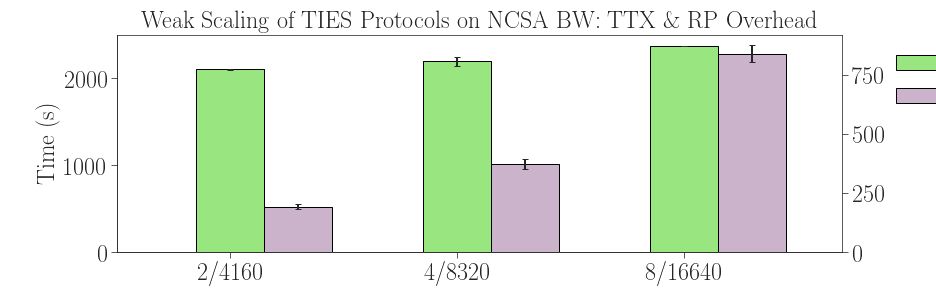
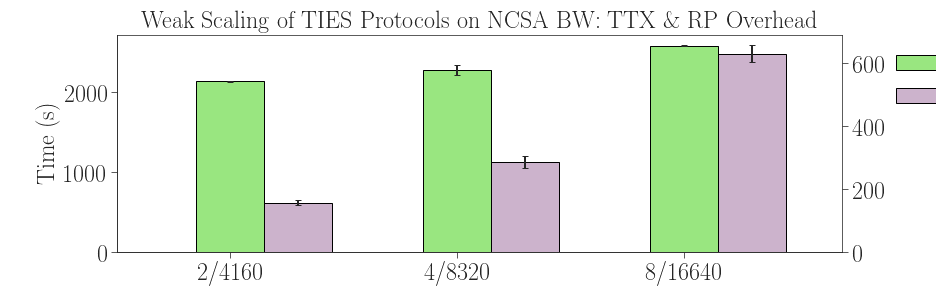
updates on figures, modified experiment section

diff --git a/sc18/experiments.tex b/sc18/experiments.tex
@@ -9,10 +9,25 @@ We perform weak and strong scalability experiments on NCSA Blue Waters--a
 13.3. petaFLOPS Cray, with 32 Interlago cores/50 GB RAM per node, Cray Gemini,
 Lustre shared file system. Our experiments are launched on Blue Waters and
 monitored using a persistent virtual machine, as Blue Waters does not allow
-for executing applications directly on the login node.
+for executing applications directly on the login node. We used HTBAC version 0.1,
+EnTK version 0.6, and RP version 0.47. The MD engine used is NAMD-MPI on Blue 
+Waters. On Titan the MD engine is non-MPI multi-core NAMD compiled with CUDA. 
 
-We used HTBAC version 0.1 EnTK version 0.6 and RP version 0.47. The MD engine
-used is NAMD-MPI for tasks pertaining to $S1$ - $S4$, while the analysis
+We show homogeneous and heterogeneous weak scalability of the ESMACS 
+and TIES protocols by growing the number of protocol instances while adhering 
+to the required number of pipelines. By design of each protocol, an 
+increase in the number of instances simply means an increase in the number of 
+pipelines. The first weak scalability experiment demonstrates the 
+behavior of HTBAC, EnTK and RP using the multiple instances
+of the TIES protocols. The second experiment repeats the same design yet replaces
+TIES with ESMACS. The third experiment demonstrates concurrent execution of TIES
+and ESMACS in the same run. By design of weak scaling, the ratio between the 
+number of pipelines and cores are kept constant. As the number of cores 
+(measure of resource) changes by a factor of 2, we introduce twice as many 
+protocol instances. As designed, the weak scaling property provides insight 
+into the size of the workload that can be investigated in a given amount of time.
+
+For tasks pertaining to $S1$ - $S4$, while the analysis
 stage, $S5$ use AmberTools. For both adaptive and nonadaptive experiments, the
 minimization tasks of $S1$ are assigned 1000 steps, while the equilibration
 tasks in $S2$ and $S3$ are assigned 5000 steps. In the nonadaptive
@@ -24,8 +39,8 @@ $S4.4$ is assigned 50,000 steps.
 % resources via a single pilot. Accordingly, we request the maximum number of
 % cores required by the workload as the number of cores in a pilot.
 
-For weak scaling performance, we use between 4160 and 33280 cores as indicated 
-in Figure~\ref{fig:weak_scaling} because the NAMD executable used in all tasks
+For weak scaling performance of TIES, we use between 4160 and 33280 cores as 
+indicated in Figure~\ref{fig:weak_scaling_TIES} because the NAMD executable used in all tasks
 from $S1$-$S4$ require at least 32 cores per task. From our own scalability
 performance measurements of NAMD on Blue Waters, we observe the ideal cores
 per task to be 16, however Blue Waters does not permit running multiple MPI
@@ -34,7 +49,7 @@ maintain concurrency.
 
 For strong scaling performance, we fix the number of protocol instances to 
 8 instances while varying the amount of resources as demonstrated in 
-Figure~\ref{fig:strong_scaling}. 
+Figure~\ref{fig:strong_scaling_TIES}. 
 
 For the TIES protocol, each pipeline consists of six stages. Each of the
 simulation stages contains a task for every unique ($\lambda$, replica)
@@ -68,7 +83,7 @@ match the additional requirement of generating new protocols.
 The total time to completion (TTC) can be expressed as
 following: $TTC = TTX + T_{O}$ where
  \(TTX\) measures the execution duration across all task, including file
- staging, MD kernel execution, and post-executables, and $T_{O}$ the total
+ staging, MD kernel execution, pre- and post-executables, and $T_{O}$ the total
 overhead is given by the sum of the constituent overheads: $$T_{O} =
 T_{O}\textsuperscript{HTBAC} + T_{O}\textsuperscript{EnTK} +
 T_{O}\textsuperscript{RP}$$
@@ -105,8 +120,23 @@ given amount of time.
   weak scaling of TIES. We ran two trials for each protocol instance 
   configuration. Error bars in \(TTX\) in 2 and 8-protocol runs are 
   insignificant.}
-\label{fig:weak_scaling}
+\label{fig:weak_scaling_TIES}
 \end{figure}
+
+The second and third weak scalability experiment repeats the same experimental 
+design yet replaces the TIES protocols with ESMACS, and TIES plus ESMACS, 
+respectively.
+
+\begin{figure}
+  \centering
+   \includegraphics[width=\columnwidth]{figures/ties_NCSA_BW_weak_scaling_ESMACS.pdf}
+  \caption{Weak scaling properties of HTBAC (right side). We investigate the
+  weak scaling of HTBAC as the ratio of the number of ESMACS protocol instances to
+  resources is kept constant. (Left) Overheads of HTBAC, and runtime overhead (EnTK/RP) for
+  experimental configurations. We ran three trials for each protocol instance configuration.}
+\label{fig:weak_scaling_ESMACS}
+\end{figure}
+
 
 The HTBAC overhead shows a super linear increase as we grow the number of protocol
 instances. However, the HTBAC overhead is a minimal contributor to \(TTX\).
@@ -119,9 +149,11 @@ descriptions from the same database.
 % area networks, which introduces varying amounts of latency.
 In addition, each stage constructed by EnTK maintains sequential barriers. 
 RP remains dormant until completion of the current tasks before staging
-the next tasks. The impact of the synchronization barriers increases with the
-number of CUs as seen in the 16 protocol instances data point in
-\ref{fig:weak_scaling}.
+the next tasks \ref{fig:weak_scaling_TIES}. 
+
+% The impact of the synchronization barriers increases with the
+% number of CUs as seen in the 16 protocol instances data point in
+
 
 Furthermore, an additional overhead, driven by the aprun launch method,
 increases as we approach a system limit on the number of permissible aprun
@@ -151,8 +183,8 @@ concurrent tasks.
 
 The RP overhead decomposes into events that capture the pilot and tasks 
 lifespan. The pilot duration contains the time to bootstrap and terminate the 
-pilot. The task overheads contain the executor's spawning of the task, folder staging preparation, pre-executable, and operating system task spawning.  
-
+pilot. The task overheads contain the executor's spawning of the task, 
+folder staging preparation, and operating system task spawning.  
 
 \begin{figure}
   \centering
@@ -163,8 +195,12 @@ pilot. The task overheads contain the executor's spawning of the task, folder st
   varying the amount resources. Overheads of HTBAC and runtime overhead 
   (left) and \(TTX\) (right) for experimental configurations investigating the 
   strong scaling of TIES.}
-\label{fig:strong_scaling}
+\label{fig:strong_scaling_TIES}
 \end{figure}
+
+
+(introduce experiment showing difference in overhead for EoP and PoE)
+
 
 %------------------------------------------------------------------------------
 

diff --git a/sc18/results.tex b/sc18/results.tex
@@ -35,27 +35,19 @@ T_{O}\textsuperscript{RP}$$
 
 \subsubsection{Weak Scaling Experiments}
 
-Here we show weak scalability for the TIES protocol by growing the number of
-protocol instances while adhering to the required number of pipelines. By
-design of each protocol, an increase in the number of instances simply means
-an increase in the number of pipelines. The first weak scalability experiment
-demonstrates the behavior of HTBAC, EnTK and RP using the multiple instances
-of the TIES protocol. By design of weak scaling, the ratio between the number
-of pipelines and cores are kept constant. As the number of cores (measure of
-resource) changes by a factor of 2, we introduce twice as many protocol
-instances. As designed, the weak scaling property provides insight into the
-size of the workload that can be investigated in a given amount of time.
-
-\begin{figure}
-  \centering
-   \includegraphics[width=\columnwidth]{weak_scaling_TIES_instances_50,000_timesteps.pdf}
-  \caption{Weak scaling properties of HTBAC (right side). We investigate the
-  weak scaling of HTBAC as the ratio of the number of protocol instances to
-  resources is kept constant. (Left) Overheads of HTBAC, and runtime overhead (EnTK/RP) for
-  experimental configurations investigating the weak scaling of TIES. We ran two trials for each protocol instance configuration.}
-\label{fig:weak_scaling}
-\end{figure}
-
+Here we show homogeneous and heterogeneous weak scalability of the ESMACS 
+and TIES protocols by growing the number of protocol instances while adhering 
+to the required number of pipelines. By design of each protocol, an 
+increase in the number of instances simply means an increase in the number of 
+pipelines. The first weak scalability experiment demonstrates the 
+behavior of HTBAC, EnTK and RP using the multiple instances
+of the TIES protocols. The second experiment repeats the same design yet replaces
+TIES with ESMACS. The third experiment demonstrates concurrent execution of TIES
+and ESMACS in the same run. By design of weak scaling, the ratio between the 
+number of pipelines and cores are kept constant. As the number of cores 
+(measure of resource) changes by a factor of 2, we introduce twice as many 
+protocol instances. As designed, the weak scaling property provides insight 
+into the size of the workload that can be investigated in a given amount of time.
 
 The HTBAC overhead accounts for approximately 0.1\% of \(TTX\). The remaining
 overheads, mainly EnTK and RP, depend on the number of tasks that need to be
@@ -65,12 +57,13 @@ submits CU descriptions to a MongoDB used by RP, and the RP pilot pulls these
 descriptions from the same database. This pull operation occurs over a wide
 area networks, which introduces varying amounts of latency. In addition, each
 Stage constructed by EnTK maintains sequential barriers. As such, RP remains
-dormant until completion of the current Stage before staging the next State.
+dormant until completion of the current Stage before executing later stages.
 The impact of the barrier increases with number of CUs as seen in the 16
-protocol instances data point in \ref{fig:weak_scaling}.  Together, these two
+protocol instances data point in \ref{fig:weak_scaling}. Together, these two
 factors introduce delays in the scheduling of the CUs and results in higher
 overheads. Each additional protocol instance contributes to roughly 55
 additional seconds in \(TTX\).
+
 
 
 % \(TTX\) measures the execution duration across all task, including file staging, MD kernel execution,
